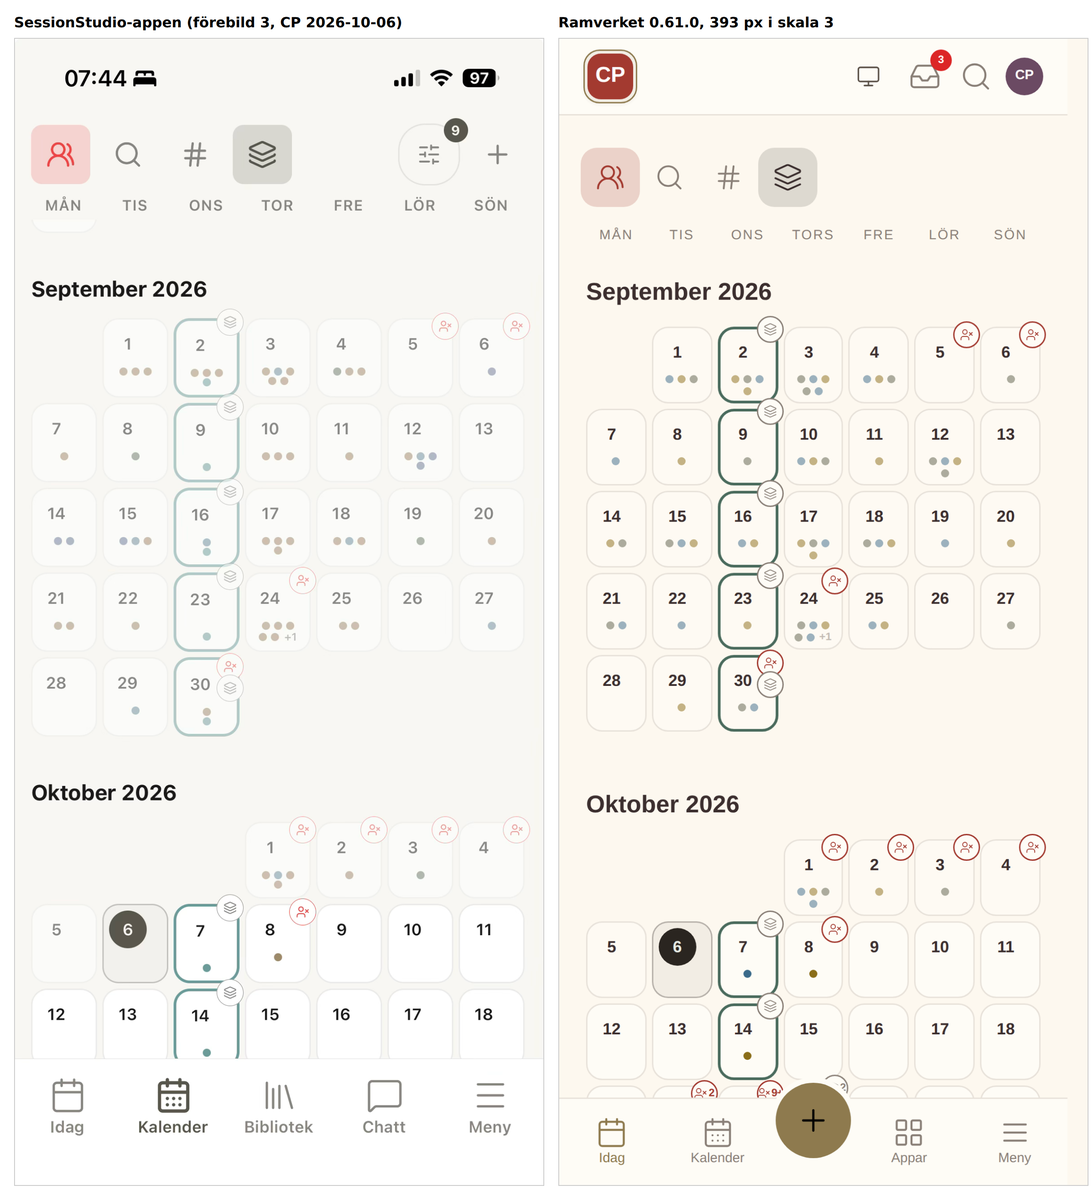
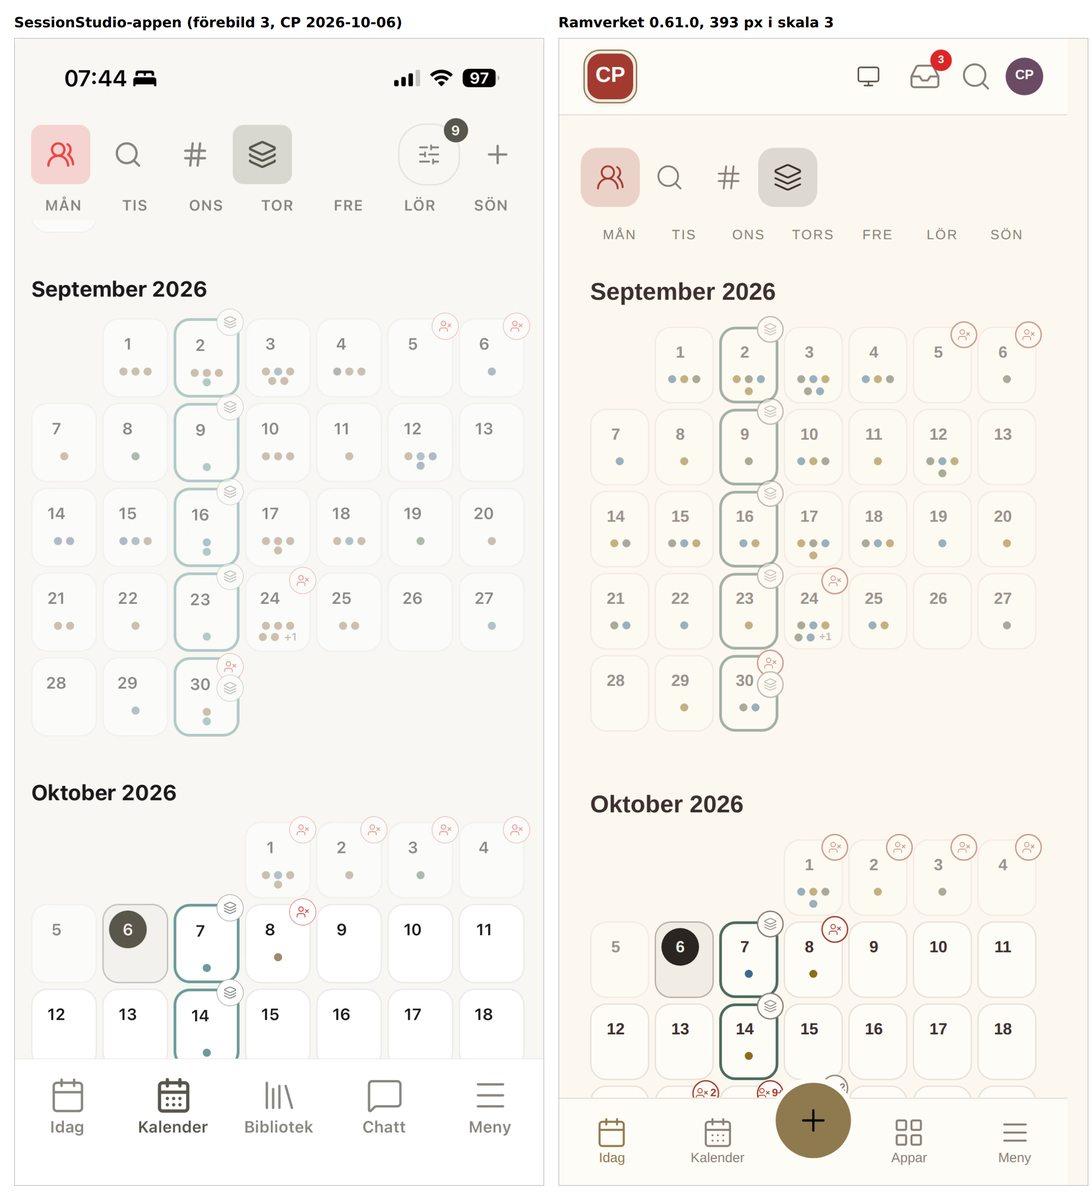
Förebild 7 med montage, regel 13 pekar på blockedDates, och ändringsloggen (PR 260)
Regel 13 hänvisar nu till SS blockedDates i 0.9.328 och 0.9.329
(subscribe_blocked_shared_error) och #113 i 0.9.398, med ADR-020 som det
övergripande beslutet.

Claude-Session: https://claude.ai/code/session_01MtEbCzeFTkDPr7xPiiaUpz

diff --git a/README.md b/README.md
@@ -268,7 +268,7 @@ något godtyckligt.
 | `OpsFilterChip` | `options` [{value, label}], `value`, `onChange`, `ariaLabel` (krävs), `allLabel`. Pillerformat filter bredvid en lista. ⛔ Valt värde står i pillret, annars läser man en beskuren lista i tron att den är komplett. |
 | `OpsSectionLabel` | `children`. Sektionsrubrik: liten versal, spärrad, accentfärg (rollen `text-sektion` plus `uppercase text-accent`, se [Typografin](#typografin)). Mätt ur SessionStudios `ProfileView.jsx` ("PROFILBILD", "PERSONUPPGIFTER"), inte uppskattat (#157). ⛔ `OpsGruppvaljare`, `OpsMedlemmar`, `OpsProfil` och `OpsFilterPanel` skrev innan dess var sin egen variant av samma rubrik (olika storlek, olika färg); den här primitiven är den gemensamma formen framåt, migreringen av de fyra är inte gjord i samma pass |
 | `OpsChip` | `icon`, `children` (ordet), `selected`, `onClick` (krävs), `disabled`. Ett VAL i pillform, inte ett filter: flera chips står bredvid varandra och trycks direkt, utan att något fälls ut (#157). Skiljer sig från `OpsFilterChip`, som är en TRIGGER som öppnar en meny. Mätt ur SessionStudios `ProfileView.jsx` (disciplin- och rollvalet): `rounded-full`, ikon, `aria-pressed` så läget är hörbart och inte bara en färg. Ingen inbyggd lista: appen sätter en `flex flex-wrap gap-2` runt chipsen själv |
-| `OpsCalendar` | `entries` [{id, `date` `YYYY-MM-DD`, `title`, status?, url?, not?, `endDate`?, `allDay`?, `kalender`? {id, namn, farg 1-6}, `typ`?}], `ariaLabel` (krävs), `statusWords` {status: ord}, `monthsBack` (12), `monthsForward` (12), `emptyText`, `tidszon` (`STANDARD_TIDSZON`), `kalendrar` [{id, namn, farg, grupp?, forvald?}], `typer` [{id, namn, modulNamn?}], `filterMinne` (0.54.0), `onSkapa(datum[])`, `onHanteraKalendrar`, `lagring`, `dagdekor(dayKey)` (0.37.0, typad 0.61.0: `{ ton?, ram?, borta?: { antal }, lager?: { antal } }`; rutan ritar SS-appens hörnbrickor själv, `UserX` och `Layers` i en opak cirkel på 20 px 4 px utanför hörnet, borta först och lagret alltid 4 px högre, räknaren från 2 och `9+` från 10, och "N borta"/"N lager" i knappens namn; `ram` är en 2 px ram i identitetsfärgen som inte ändrar rutans storlek), `tillganglighet` och `lager` (0.61.0, `{ pa, onByt }`: knapparna i verktygsraden, bara när propen finns), `daglager(dayKeys)` (0.37.0, innehållet i dagpanelens lagerbubbla). **Löpande månadsvy som SessionStudios `CalView` (0.36.0, #179 F1)**: tolv månader bakåt och tolv framåt, öppnar på idag, klistrad veckodagsrad, flytande Idag-knapp med pil åt det håll idag ligger, måndag först. Rutan är ett kort med tokens rundning 12 px (`--radius-base`, vald 16). ⛔ **På telefon som SS-appen (0.37.0)**: siffran i en ruta på 28 px längst till vänster (0.61.0; till 0.60.0 centrerad, vilket var fel), idag en mörk cirkel, vald en mörk fylld ruta med ljus text, och märkena **prickar för endagsposter och streck för flerdagsposter i varje ruta de täcker**, i kategorins färg (slag, annars kalender), "+N" när de inte ryms, och inga ikoner i rutan. Från 640 px datumet uppe till vänster (idag som fyllt piller) och piller med titel. Det som varit är nedtonat. ⛔ Verktygsraden (högerställd från 768 px, SS `CalendarViewToolbar`; på telefon rena ikoner till vänster och kalenderpillret till höger som SS-appen, 44 px träffyta): **Kalendrar** (alla, eller valda av gruppens och mina; en post utan `kalender` hör till den förvalda; knappen "Hantera kalendrar" finns med `onHanteraKalendrar`), **veckonummer** (sparas per enhet i `lagring`, ett tryck på numret väljer veckan), **typ och status** i en meny, **sök** som tonar ned dagar utan träff och skriver ut antalet, också noll, och **+** (bara med `onSkapa`). En kontroll som inte gör något ritas inte. ⛔ Urval: tryck lägger till eller tar bort en dag, **dra-markering** med 12 px tröskel lägger till intervallet, **långtryck (450 ms) eller högerklick** öppnar snabbtitten, där poster som filtret döljer står med, märkta "Dold". ⛔ **Flerdagsposter och heldag är band per vecka från 640 px**, staplade i filer när de överlappar, med titeln i varje vecka; på telefon streck. ⛔ **Dagpanelen** (SS `CalendarView` och SS-appens `DayDetailPanel`, 0.37.0): datumpiller överst med var sitt kryss, **en bubbla med posterna** (rubrikerna Grupp och Mina när båda finns, tak 140 px och egen rullning), till höger antalet och en skapa-ruta, och under dem en egen bubbla för lager när `daglager` ger något; en tom dag är tryckbar och panelen säger "Inga poster" (punkt 5). Från 1024 px en kolumn bredvid rutnätet (300 px, 360 från 1280, alltid reserverad så rutnätet inte krymper under fingret); under 1024 px **flyter bubblorna över rutnätets nedre del**, utan egen yta, högst 45 procent av ytan, och rullytan får lika mycket luft i botten (0.36.0 staplade panelen under rutnätet). ⛔ RULLAR I SIN EGEN BEHÅLLARE med uppmätt höjd (`src/lib/fullHeight.js`, delad med `OpsScrollArea`). ⛔ VARJE KORT ÄR FÄLLBART: chevron när posten har status, url eller `details`, och aldrig annars. ⛔ **Appraden (0.54.0, #244)**: med minst två appar en knapp per app under verktygsraden, Gruppens egna och varje modul, härledd ur typens prefix (`ekonomi:kvitto` hör till Ekonomi). Ett tryck döljer appens poster, allt synligt från början. Så många som ryms står i raden, högst fyra, resten under Fler (n) med en prick när något där är dolt; raden mäter sin bredd och rullar aldrig. Visa alla finns när något är dolt. Typlistan visar bara synliga appars typer. `filterMinne` (vanligen gruppens id) sparar valet per person och grupp i `lagring`. ⛔ Dagpanelens sektion för tillgänglighet och export finns inte än (#259 skiva 2, F4) |
+| `OpsCalendar` | `entries` [{id, `date` `YYYY-MM-DD`, `title`, status?, url?, not?, `endDate`?, `allDay`?, `kalender`? {id, namn, farg 1-6}, `typ`?}], `ariaLabel` (krävs), `statusWords` {status: ord}, `monthsBack` (12), `monthsForward` (12), `emptyText`, `tidszon` (`STANDARD_TIDSZON`), `kalendrar` [{id, namn, farg, grupp?, forvald?}], `typer` [{id, namn, modulNamn?}], `filterMinne` (0.54.0), `onSkapa(datum[])`, `onHanteraKalendrar`, `lagring`, `dagdekor(dayKey)` (0.37.0, typad 0.61.0: `{ ton?, ram?, borta?: { antal }, lager?: { antal } }`; rutan ritar SS-appens hörnbrickor själv, `UserX` och `Layers` i en opak cirkel på 20 px 4 px utanför hörnet under 640 px (längre ut och med en mindre sifferruta i rutor smalare än 47 px), från 640 px i siffrans rad som SS webb med `N/N` när ingen är borta, borta först och lagret alltid 4 px högre, räknaren från 2 och `9+` från 10, och "N borta"/"N lager" i knappens namn; `ram` är en 2 px ram i identitetsfärgen som inte ändrar rutans storlek), `tillganglighet` och `lager` (0.61.0, `{ pa, onByt }`: knapparna i verktygsraden, bara när propen finns), `daglager(dayKeys)` (0.37.0, innehållet i dagpanelens lagerbubbla). **Löpande månadsvy som SessionStudios `CalView` (0.36.0, #179 F1)**: tolv månader bakåt och tolv framåt, öppnar på idag, klistrad veckodagsrad, flytande Idag-knapp med pil åt det håll idag ligger, måndag först. Rutan är ett kort med tokens rundning 12 px (`--radius-base`, vald 16). ⛔ **På telefon som SS-appen (0.37.0)**: siffran i en ruta på 28 px längst till vänster (0.61.0; till 0.60.0 centrerad, vilket var fel), idag en mörk cirkel, vald en mörk fylld ruta med ljus text, och märkena **prickar för endagsposter och streck för flerdagsposter i varje ruta de täcker**, i kategorins färg (slag, annars kalender), "+N" när de inte ryms, och inga ikoner i rutan. Från 640 px datumet uppe till vänster (idag som fyllt piller) och piller med titel. Det som varit är nedtonat. ⛔ Verktygsraden (högerställd från 768 px, SS `CalendarViewToolbar`; på telefon rena ikoner till vänster och kalenderpillret till höger som SS-appen, 44 px träffyta): **Kalendrar** (alla, eller valda av gruppens och mina; en post utan `kalender` hör till den förvalda; knappen "Hantera kalendrar" finns med `onHanteraKalendrar`), **veckonummer** (sparas per enhet i `lagring`, ett tryck på numret väljer veckan), **typ och status** i en meny, **sök** som tonar ned dagar utan träff och skriver ut antalet, också noll, och **+** (bara med `onSkapa`). En kontroll som inte gör något ritas inte. ⛔ Urval: tryck lägger till eller tar bort en dag, **dra-markering** med 12 px tröskel lägger till intervallet, **långtryck (450 ms) eller högerklick** öppnar snabbtitten, där poster som filtret döljer står med, märkta "Dold". ⛔ **Flerdagsposter och heldag är band per vecka från 640 px**, staplade i filer när de överlappar, med titeln i varje vecka; på telefon streck. ⛔ **Dagpanelen** (SS `CalendarView` och SS-appens `DayDetailPanel`, 0.37.0): datumpiller överst med var sitt kryss, **en bubbla med posterna** (rubrikerna Grupp och Mina när båda finns, tak 140 px och egen rullning), till höger antalet och en skapa-ruta, och under dem en egen bubbla för lager när `daglager` ger något; en tom dag är tryckbar och panelen säger "Inga poster" (punkt 5). Från 1024 px en kolumn bredvid rutnätet (300 px, 360 från 1280, alltid reserverad så rutnätet inte krymper under fingret); under 1024 px **flyter bubblorna över rutnätets nedre del**, utan egen yta, högst 45 procent av ytan, och rullytan får lika mycket luft i botten (0.36.0 staplade panelen under rutnätet). ⛔ RULLAR I SIN EGEN BEHÅLLARE med uppmätt höjd (`src/lib/fullHeight.js`, delad med `OpsScrollArea`). ⛔ VARJE KORT ÄR FÄLLBART: chevron när posten har status, url eller `details`, och aldrig annars. ⛔ **Appraden (0.54.0, #244)**: med minst två appar en knapp per app under verktygsraden, Gruppens egna och varje modul, härledd ur typens prefix (`ekonomi:kvitto` hör till Ekonomi). Ett tryck döljer appens poster, allt synligt från början. Så många som ryms står i raden, högst fyra, resten under Fler (n) med en prick när något där är dolt; raden mäter sin bredd och rullar aldrig. Visa alla finns när något är dolt. Typlistan visar bara synliga appars typer. `filterMinne` (vanligen gruppens id) sparar valet per person och grupp i `lagring`. ⛔ Dagpanelens sektion för tillgänglighet och export finns inte än (#259 skiva 2, F4) |
 | `OpsFilterPanel` | `groups` [{id, label, options, allaLabel?}], `value` {grupp: valt \ ⛔ `layout="ikoner"` ger EN IKON PER GRUPP bredvid varandra i stället för en knapp för allt, var och en med sin egen meny och tänd när just den gruppen är satt: med fem dimensioner blev den samlade panelen tjugo rader som täckte halva skärmen. Gruppens `icon` är appens (vilken bild som betyder «roll» beror på vad rollerna är), och saknas den faller den tillbaka på reglageikonen. Sorteringen tänds när den lämnat `sorting.standard`, men räknas fortfarande aldrig som ett filter. ⛔ `sorting.standard` KRÄVS i ikonläget och gissas inte: reserven var «första alternativet», vilket är rätt precis tills någon sorterar om `options`, och då lyser ikonen från start utan att någon rört den. Ingenting går sönder, sidan ljuger bara om sitt eget tillstånd, och det är den sortens fel ingen app upptäcker i sina egna prov. Den samlade panelen kräver den inte, eftersom den inte tänder något. ⛔ SORTERINGENS BILD ÄR RAMVERKETS och inte appens, till skillnad från gruppernas: vilken bild som betyder «roll» beror på vad rollerna är, medan «i vilken ordning ligger raderna» är samma fråga i varje app. `sorting.icon` finns kvar som övertramp. Reserven var förut reglageikonen, alltså SAMMA bild som en grupp utan egen ikon får, och två kontroller med samma bild bredvid varandra går inte att skilja på. ⛔ RENSA ÄR ETT KRYSS I DET LÄGET och inte ordet (CP 2026-09-22: "Går det att ersätta rensa med ett kryss eller nåt annat grepp som gör att allt får plats i en liten skärm?"). Krysset står aldrig ensamt, eftersom knappen bara finns när minst en ikon till vänster om den LYSER, och ett kryss sist i en rad tända ikoner läses som «släck dem». `clearLabel` är kvar som knappens namn, så den som lyssnar hör «Rensa» och inte «kryss». ⛔ KRYSSET SPARAR INGEN BREDD: mätt på komponenten i Chromium är raden 286 px med ordet och 284 med krysset. En ikonknapp som behåller sin träffyta är `min-w-11`, alltså 44 px, och ordet «Rensa» med `px-3` är 46. Bilden är smalare än ordet, knappen är det inte, och den som byter ord mot ikon för att vinna plats räknar fel. Krysset är ett utseendeval och inte en passformsfix | null}, `onChange` (hela kartan), `ariaLabel` (krävs), `sorting` {label, value, options, onChange}, `clearLabel`, `moreLabel`. Flera filterdimensioner plus sortering bakom en knapp. ⛔ Knappen byter form med valet: ikon utan text när inget är valt, piller med den VALDA etiketten när något är, räknare först vid två. ⛔ Sortering räknas aldrig som filter, en sorterad lista är fortfarande komplett. Ersätter inte `OpsFilterChip`: en dimension ska vara ett piller |
 | `OpsHelp` | `title` (ett rubrikelement), `children` (förklaringen), `label`. En rubrik med sin förklaring bakom ett FRÅGETECKEN. ⛔ CP 2026-09-22: "Låt texter komma fram med hjälp av att man trycker på ett frågetecken, så blir appen lite renare." Meningen under rubriken är sann och värd att ha, men den läses en gång och står kvar för alltid, och på en telefon trycker den ner det man kom för. ⛔ BYGGD PÅ `<details>` OCH INTE EN KNAPP MED STATE, samma skäl som `OpsDisclosure` och värt att upprepa eftersom frestelsen är större här: en liten knapp ser ut som fem rader kod, men en egen hopfällning tappar tangentbord, fokusordning och skärmläsarens «expanderad» gratis. ⛔ HELA RUBRIKRADEN ÄR TRÄFFYTAN och inte bara tecknet: `<summary>` är ETT element, så ska tecknet vara enda klickytan måste texten ut ur det, och då är man tillbaka i egen state. Bytet gynnar dessutom tummen, ett 20 px tecken är en dålig träff. Tecknet är det man SER och siktar på, raden tar emot. Innehållsmodellen tillåter uttryckligen ett rubrikelement i ett `<summary>`, så rubriken förblir en rubrik. ⛔ INGET FRÅGETECKEN UTAN TEXT: saknas `children` ritas rubriken naken, för en knapp som öppnar ingenting är ett löfte som inte infrias. ⛔ STÄNGD FRÅN START, ALLTID. Ett `storageKey` som `OpsDisclosure` har vore lätt och fel: mindes texten sig öppen vore vi tillbaka i en mening som står kvar för alltid. ⛔ `OpsViewHeader` ANVÄNDER DEN FÖR SIN `description`, alltså får varje vy frågetecknet utan att göra något; arton vyer i bolag-ops hade annars fått arton varianter av samma gest. |
 | `OpsControlRow` | `children`, `align` (`"mitten"` eller `"start"`). En rad kontroller ovanför det de styr. ⛔ TUNN MED FLIT, och skälet är inte att spara tecken: vyerna skrev raden själva och skrev den olika, en med `gap-2` och en utan, en som bröts vid smal skärm och en som sköt ut. Ingen av de skillnaderna var beslutad, och de upptäcktes först när CP höll telefonen bredvid datorn. ⛔ REGELN SOM BOR HÄR ÄR VAD SOM HÄNDER NÄR RADEN INTE RYMS: den bryts, den krymper inte och den skjuter inte ut. En kontroll som krympt under sin egen träffyta är värre än en som flyttat ner en rad, eftersom den fortfarande ser ut att gå att trycka på. ⛔ `mitten` som förval, för en ensam kontroll över en lista hör hemma över listans mitt; `start` när raden bär FLERA kontroller, eftersom vänsterkanten då är den enda punkt som ligger still när en av dem byter bredd. ⛔ Kastar på en okänd justering: en tyst reserv gör `align="vanster"` till en rad som ser nästan rätt ut, och nästan rätt upptäcks aldrig. ⛔ DEN HINDRAR INTE en vy från att lägga sex saker i en rad som rymmer fyra. Det är fortfarande vyns ansvar, och det är fortfarande något som ska MÄTAS och inte antas. |
@@ -1862,7 +1862,7 @@ CP 2026-09-29, epiken cllp/ops-framework#179: flera namngivna **gruppkalendrar**
 | `postTillRad` | En post som en rad i `OpsCalendar` (`date`, `endDate`, `allDay`, `not` med tid och plats, `kalender` med namn och färg) |
 | `KALENDERFARGER`, `KALENDERIKONER` | Färgen är identitetspalettens sex toner (en kalender står alltid med sitt namn, så tre slagfärger hade tvingat fram dubbletter vid fjärde kalendern). Ikonerna är ramverkets egna id:n |
 | `STANDARD_TIDSZON`, `kontrolleraTidszon`, `idagI` | Tidszonen är en inställning med `Europe/Stockholm` som förval, inte en konstant som i SS. `idagI(zon, nu)` är dagens datum i zonen; `kontrolleraTidszon` kastar vid uppstart på en zon som inte finns |
-| `tillganglighetForDag`, `bortaAntal` | **Tillgängligheten en dag (0.61.0, #259 skiva 1).** `tillganglighetForDag({ medlemmar: [{ uid, namn }], poster: [{ uid, start, slut, heldag, lage: "dold" \| "upptagen" \| "delad", rubrik? }], dag, tidszon? })` ger `[{ uid, namn, lage: "borta" \| "upptagen", orsak }]` sorterad på namn. Borta: något täcker hela dagen (heldag, eller 00:00 till 24:00 i tidszonen); upptagen: en tidsatt post skär dagen; borta vinner. Heldag har **exklusivt** `slut`, som `DTEND` i ICS. ⛔ Härleds, lagras aldrig. ⛔ En `dold` post räknas inte alls och läses inte ens. `orsak` är rubriken bara från `delad` poster, annars `null`. En post som inte går att läsa kastar. `bortaAntal(lista)` är antalet till hörnbrickan i `OpsCalendar dagdekor`, borta och upptagna tillsammans som SS `blockedCount` |
+| `tillganglighetForDag`, `bortaAntal` | **Tillgängligheten en dag (0.61.0, #259 skiva 1).** `tillganglighetForDag({ medlemmar: [{ uid, namn }], poster: [{ uid, start, slut, heldag, lage: "dold" \| "upptagen" \| "delad", rubrik? }], dag, tidszon? })` ger `[{ uid, namn, lage: "borta" \| "upptagen", orsak }]` sorterad på namn. Borta: något täcker hela dagen (heldag, eller 00:00 till 24:00 i tidszonen); upptagen: en tidsatt post skär dagen; borta vinner. Heldag har **exklusivt** `slut`, som `DTEND` i ICS; en tid med zon prövas strikt (datumet måste finnas, `Z` eller `±hh:mm`). ⛔ Härleds, lagras aldrig. ⛔ En `dold` post räknas inte alls och läses inte ens. `orsak` är rubriken bara från `delad` poster, annars `null`. En post som inte går att läsa kastar. `bortaAntal(lista)` är antalet till hörnbrickan i `OpsCalendar dagdekor`, borta och upptagna tillsammans som SS `blockedCount` |
 | `kalenderfonster` | `{ fran, till }` för de månader `OpsCalendar` ritar (förval 12 bakåt och 12 framåt). Appens läsväg för `/kalender` ska använda den, så att det som ritas och det som läses är samma fönster |
 | `isoVecka`, `datumOmfang`, `bandIVecka` | ISO-veckonumret, alla dagar mellan två datum (i valfri ordning), och banden i en veckorad med fil per överlapp (SS `getSpanSegmentsForWeekRow`) |
 

diff --git a/CHANGELOG.md b/CHANGELOG.md
@@ -22,15 +22,19 @@ Händelsen: CP 2026-10-06, med tre skärmbilder ur SessionStudio-appen och en ur
 #### Tillagt
 
 - **`tillganglighetForDag({ medlemmar, poster, dag, tidszon })` och `bortaAntal(lista)`** (`src/lib/tillganglighet.js`). Vem i gruppen som är borta (något täcker hela dagen i tidszonen) eller upptagen (en tidsatt post skär dagen), sorterat på namn, borta vinner. Heldag har exklusivt slut som `DTEND` i ICS. Härleds, lagras aldrig. ⛔ En post med läget `dold` räknas inte alls och läses inte ens; `orsak` är rubriken bara från `delad` poster. En post som inte går att läsa kastar i stället för att visa personen som tillgänglig. `bortaAntal` räknar borta och upptagna tillsammans, som SS `blockedCount`.
-- **Under 640 px: SS-appens hörnbrickor.** En opak cirkel på 20 px med 1 px kant i ikonens färg (fara för `UserX`, `ink-muted` för `Layers`), ikonen 10 px, ingen skugga. Klustret sitter 4 px utanför rutans övre högra hörn, borta först och lagret alltid 4 px högre (SS `marginTop:-4`, också ensam), 16 px mellan överkanterna med båda. Räknaren inne i cirkeln från 2, `9+` från 10.
+- **Under 640 px: SS-appens hörnbrickor.** En opak cirkel på 20 px med 1 px kant i ikonens färg (fara för `UserX`, `ink-muted` för `Layers`), ikonen 10 px, ingen skugga. Klustret sitter 4 px utanför rutans övre högra hörn, borta först och lagret alltid 4 px högre (SS `marginTop:-4`, också ensam), 16 px mellan överkanterna med båda. Räknaren inne i cirkeln från 2, `9+` från 10. Förebild 7 är mätt: brickan med räknare ("UserX 2" den 8 oktober) är samma fasta cirkel på 59 bildpixlar (20 pt) som de ensamma, inte en kapsel som växer. En dag som varit tonas med brickor och ram till hälften, som SS-appens `opacity` på hela cellen (förebild 7, den 24 september).
 - **Från 640 px: SS webbs rad** (`MonthGrid.jsx:448-536`). `UserX` och `Layers` på 14 px i siffrans rad till höger, i flödet och utan bricka, räknaren direkt efter ikonen, och `N/N` på samma plats när ingen är borta (`dekor.narvaro`).
 - **`dekor.ram`:** lagrets ram, 2 px i identitetsfärgen. Under 640 px täcker den rutans kant (SS-appen `borderWidthForLayer`) utan att ändra rutans storlek, från 640 px 3 px innanför med 70 procents täckning (SS webb `inset-0.5`). Ingen ram på den valda rutan.
 - **`OpsCalendar tillganglighet` och `lager`** (`{ pa, onByt }`): knapparna i verktygsraden, bara när propen finns, med `aria-pressed`. Under 768 px först i raden (tillgänglighet, sök, veckonummer, lager), som SS-appen; från 768 tillgänglighet efter kalenderväljaren, som SS webb, och lager efter veckonumret. Aktiv tillgänglighet är fara-tonad, aktivt lager grått.
 - **Typografirollen `raknare`** (9 px, 700, radhöjd 1), SS webbs `sm:text-[9px] font-bold leading-none`.
-- **`check-skalyta` avsnitt 41**, i 375 och 1280 px: brickans mått, läge, överlapp och räknare (telefon), radens läge, ordning, räknare och `N/N` (bred), siffrans glyfer fria, höjden oförändrad, ramen, dolda poster utan markering och verktygsradens ordning. Varje mätning sedd röd.
+- **`check-skalyta` avsnitt 41**, i 320, 360, 375, 393 och 1280 px: brickans mått, läge, överlapp och räknare (telefon), radens läge, ordning, räknare och `N/N` (bred), siffrans glyfer fria, höjden oförändrad, ramen, ingen räknare vid 1, söndagskolumnens bricka oklippt, tonade brickor på dagar som varit, dolda poster utan markering och verktygsradens ordning. Varje mätning sedd röd.
 
 #### Ändrat
 
+- **Smala rutor (granskningen av PR 260): siffrans ruta krymper och brickan går ut lite mer.** Med SS-måtten täckte brickan siffran under cirka 47 px rutbredd: 0,6 px luft vid 375, täckt vid 360 (4 av 12 rutor) och 320 (8 av 12). Siffrans ruta är nu `clamp(14, 2 x radbredd - 38, 28)` px och överhänget `max(4, 40 - rutbredd)` px, så vid 393 är allt SS rakt av (28 px, 4 px) och under det krymper rutan först. Rullytan har 7 px marginal under 640 px, så att brickan i söndagskolumnen aldrig klipps.
+- **`tillganglighetForDag` prövar en tid med zon strikt.** `Date.parse` ensam godtog `2026-02-30T10:00Z` och räknade den som 2 mars. Nu krävs datum som finns, `THH:MM` med valfria sekunder, och `Z` eller `±hh:mm`. Orsakerna ordnas på den tolkade tiden, inte på strängen.
+- **`dagdekor` varnar i utveckling** (`import.meta.env.DEV`) för ett antal som inte är ett heltal och för en kvarlämnad `hornmarken`, i stället för att tyst inte rita.
+- **`N/N` har vikt 600**, som SS `font-semibold`.
 - **Siffran står på telefon i en ruta på 28 px längst till vänster, inte centrerad.** Kommentaren sade att SS centrerar; SS lägger `dayNumberContainer` först i `dayTopRow` (`flex-start`). Mätt i förebild 3: 5,8 pt vänster om rutans mitt. `check-skalyta` avsnitt 30 krävde en centrerad siffra och kräver nu SS-geometrin.
 
 ## 0.60.0

diff --git a/CLAUDE.md b/CLAUDE.md
@@ -193,9 +193,14 @@ arkitektur och göra det komplext."
 Regel 12 säger att det SS gör ska se likadant ut. Den här säger vad som
 händer när SS gör något sämre, eller gör det på ett sätt som kostar. SS bär
 själv beviset: dess tillgänglighet byggdes på läsregler som avgjorde vem som
-fick se vad, och det slutade i det SS kallar "permissions-träsket" (ADR-020).
-Att kopiera den modellen för att ytan ska se likadan ut hade varit att kopiera
-felet tillsammans med utseendet.
+fick se vad. Delade blockerade datum (`blockedDates`) fick i 0.9.328 en
+läsregel som prövade medlemskapet per grupp, och redan i 0.9.329 föll den på
+Firestores gräns för antal `exists()` (`subscribe_blocked_shared_error`) och
+fick backas till JWT-anspråken. I 0.9.398 (#113) fick samma läsning en
+tredje form, JWT eller medlemskap. Det övergripande beslutet om den sortens
+läsregler, och det SS kallar "permissions-träsket", är ADR-020. Att kopiera den
+modellen för att ytan ska se likadan ut hade varit att kopiera felet
+tillsammans med utseendet.
 
 **Regeln:** varje skiva som följer en förebild skriver ut tre listor i PR:en.
 Den första är det som tas som det är. Den andra är det som görs bättre, och
